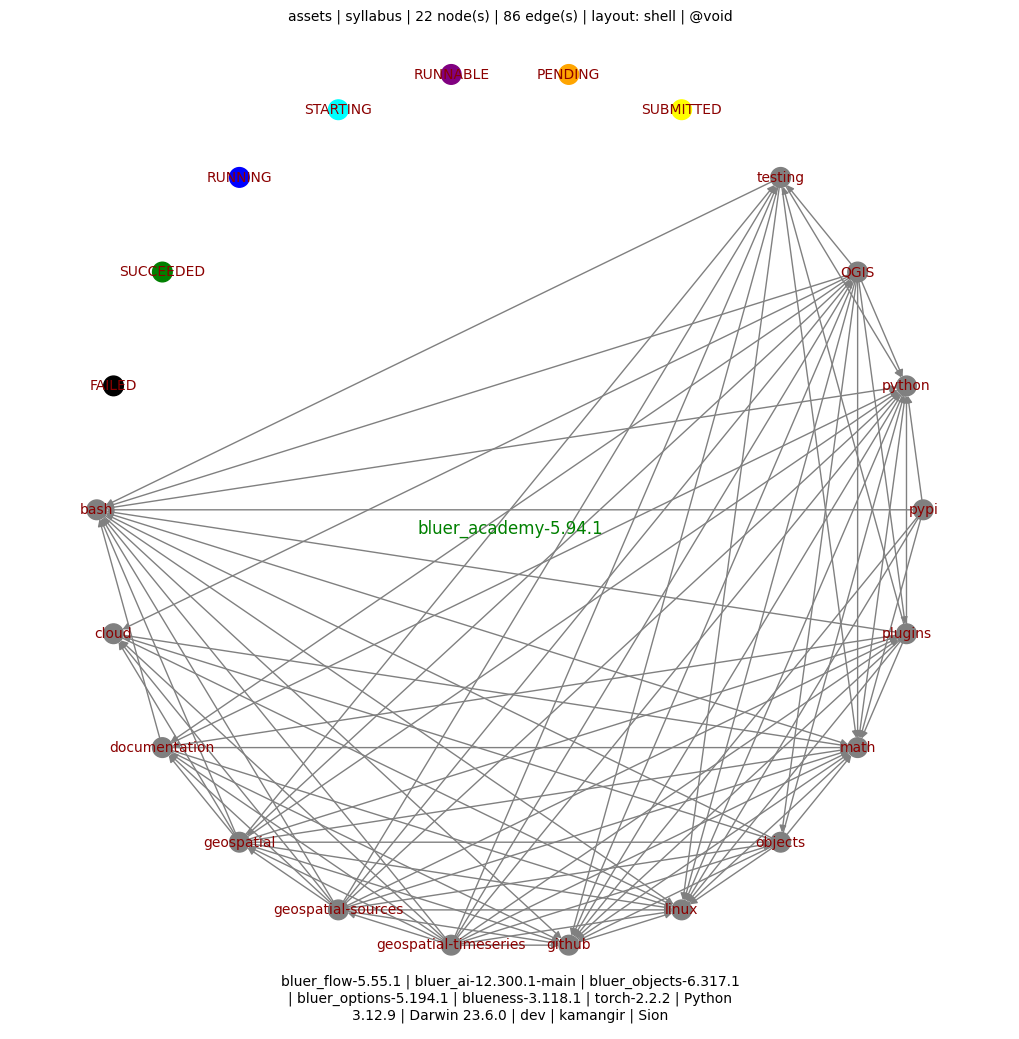
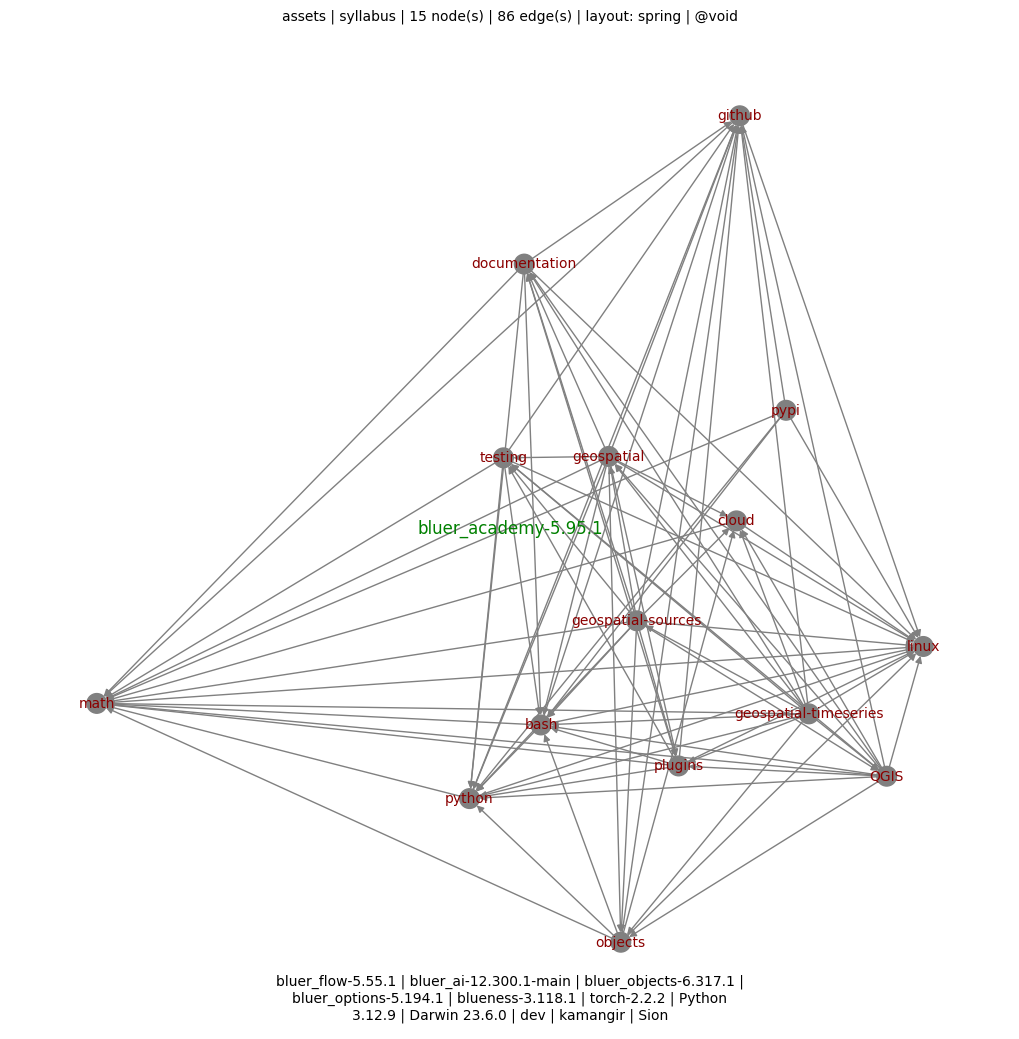
++ - kamangir/bolt#746

diff --git a/bluer_academy/academy/classes/syllabus.py b/bluer_academy/academy/classes/syllabus.py
@@ -19,7 +19,10 @@ class Syllabus:
 
         assert self.expand_requirements()
 
-    def as_image(self, filename: str) -> bool:
+    def as_image(
+        self,
+        filename: str,
+    ) -> bool:
         success, G = self.as_graph()
         if not success:
             return success
@@ -27,8 +30,10 @@ class Syllabus:
         return dot_file.export_graph_as_image(
             G,
             filename,
+            layout="spring",
             colormap=dot_file.status_color_map,
             caption=fullname(),
+            add_legend=False,
         )
 
     @property

diff --git a/bluer_academy/__init__.py b/bluer_academy/__init__.py
@@ -4,7 +4,7 @@ ICON = "📐"
 
 DESCRIPTION = f"{ICON} an academy for practical AI in Iran."
 
-VERSION = "5.94.1"
+VERSION = "5.95.1"
 
 REPO_NAME = "bluer-academy"
 

diff --git a/README.md b/README.md
@@ -15,4 +15,4 @@ pip install bluer-academy
 
 [![pylint](https://github.com/kamangir/bluer-academy/actions/workflows/pylint.yml/badge.svg)](https://github.com/kamangir/bluer-academy/actions/workflows/pylint.yml) [![pytest](https://github.com/kamangir/bluer-academy/actions/workflows/pytest.yml/badge.svg)](https://github.com/kamangir/bluer-academy/actions/workflows/pytest.yml) [![bashtest](https://github.com/kamangir/bluer-academy/actions/workflows/bashtest.yml/badge.svg)](https://github.com/kamangir/bluer-academy/actions/workflows/bashtest.yml) [![PyPI version](https://img.shields.io/pypi/v/bluer-academy.svg)](https://pypi.org/project/bluer-academy/) [![PyPI - Downloads](https://img.shields.io/pypi/dd/bluer-academy)](https://pypistats.org/packages/bluer-academy)
 
-built by 🌀 [`bluer README`](https://github.com/kamangir/bluer-objects/tree/main/bluer_objects/README), based on 📐 [`bluer_academy-5.94.1`](https://github.com/kamangir/bluer-academy).
+built by 🌀 [`bluer README`](https://github.com/kamangir/bluer-objects/tree/main/bluer_objects/README), based on 📐 [`bluer_academy-5.95.1`](https://github.com/kamangir/bluer-academy).
